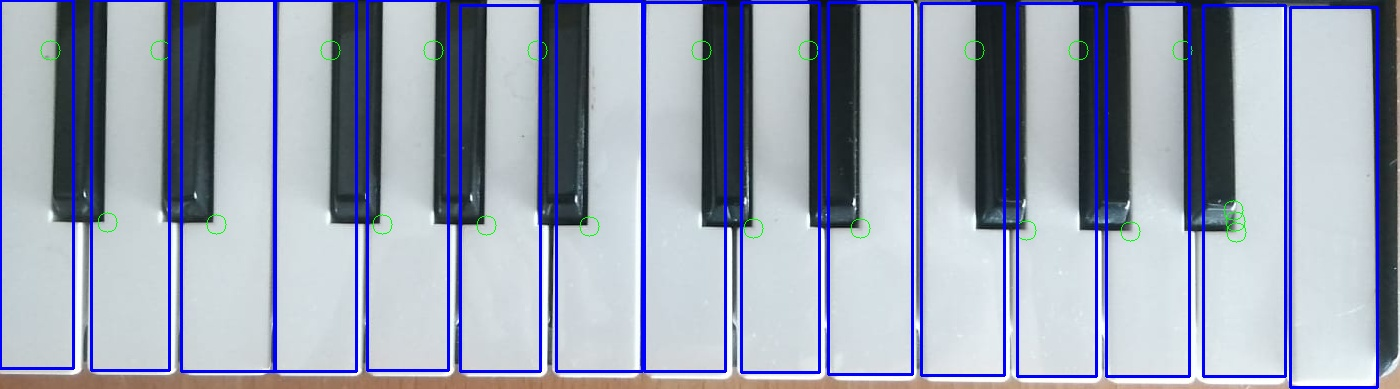
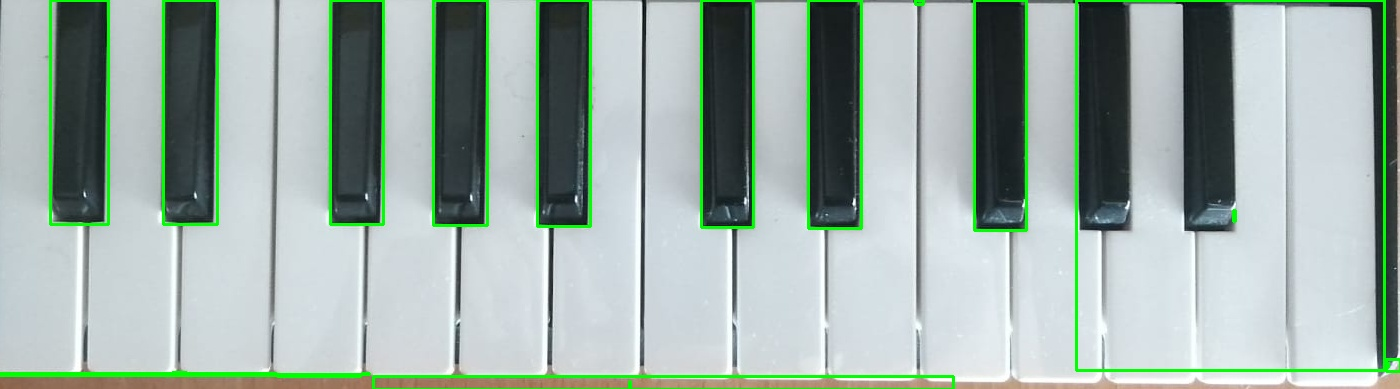
points

Changed region(s): [[0.0, 0.0, 1.0, 1.0]]

diff --git a/src/img_proc.py b/src/img_proc.py
@@ -39,6 +39,10 @@ class ImgProc:
     
     def find_keys(src_img_path, dest_img_path = 'img/results/keys.jpg'):
         img = cv2.imread(src_img_path)
+        img2 = img.copy()
+        x,y,_ =  img.shape
+        img_center = (y/2,x/2)
+
         gray = cv2.cvtColor(img, cv2.COLOR_BGR2GRAY)
 
         #remove image boreders
@@ -51,26 +55,6 @@ class ImgProc:
                 resize2[i].append(resize[i][j])
 
         resize2 = np.array(resize2) 
-
-        #detect black keys
-        _,thresh = cv2.threshold(resize2,127,255,cv2.THRESH_BINARY)
-        opned = cv2.morphologyEx(thresh, cv2.MORPH_OPEN, kernel= np.ones((13, 13), np.uint8))
-        closed = cv2.morphologyEx(opned, cv2.MORPH_CLOSE, kernel= np.ones((7, 7), np.uint8))
-        edges = cv2.Canny(closed,50,150)
-        contours, _ = cv2.findContours(edges.copy(), cv2.RETR_EXTERNAL, cv2.CHAIN_APPROX_SIMPLE)
-
-        black_keys = []
-
-        for contour in contours:
-            epsilon = 0.02 * cv2.arcLength(contour, True)
-            approx = cv2.approxPolyDP(contour, epsilon, True)
-            
-            x, y, w, h = cv2.boundingRect(approx)
-            x +=50
-            y +=50
-            black_keys.append((x,y,w,h))
-            
-            cv2.rectangle(img, (x, y), (x + w, y + h), (0, 255, 0), 2)
         
         #detect white keys
         thresh2 = cv2.adaptiveThreshold(gray,255,cv2.ADAPTIVE_THRESH_MEAN_C,cv2.THRESH_BINARY,5,2)
@@ -82,11 +66,56 @@ class ImgProc:
         valid_contours = [contour for contour in contours if cv2.contourArea(contour) > min_contour_area]
 
         white_keys = []
+        maxX = 0
+        maxY = 0
+        minX = float("inf")
+        minY = float("inf")
         for contour in valid_contours:
             x, y, w, h = cv2.boundingRect(contour)
             white_keys.append((x,y,w,h)) 
-            cv2.rectangle(img, (x, y), (x + w, y + h), (255, 0, 0), 2)
+            if x > maxX: maxX = x+w
+            if x < minX : minX = x
+            if y > maxY: maxY = y+h
+            if y < minY : minY = y
+
+            #cv2.rectangle(img, (x, y), (x + w, y + h), (255, 0, 0), 2)
         
+        #cv2.rectangle(img,(minX,minY),(maxX,maxY),(255,0,0),2)
+
+        #detect black keys
+        _,thresh = cv2.threshold(img2,127,255,cv2.THRESH_BINARY)
+        opned = cv2.morphologyEx(thresh, cv2.MORPH_OPEN, kernel= np.ones((13, 13), np.uint8))
+        closed = cv2.morphologyEx(opned, cv2.MORPH_CLOSE, kernel= np.ones((7, 7), np.uint8))
+        edges = cv2.Canny(closed,50,150)
+        cv2.imwrite('img/results/edges.jpg',edges)
+        
+        points = []
+        for i in range(len(edges[int(img_center[1])])):
+            if edges[int(img_center[1])][i] == 255: points.append(i)
+
+
+        left = points[0:int(len(points)/2)]
+        right = points[int(len(points)/2):len(points)]
+        left = left[len(left)-10:10]
+        right = right[0:10]
+
+        print(left,right)
+        
+        contours, _ = cv2.findContours(edges.copy(), cv2.RETR_EXTERNAL, cv2.CHAIN_APPROX_SIMPLE)
+
+        black_keys = []
+
+        for contour in contours:
+            epsilon = 0.02 * cv2.arcLength(contour, True)
+            approx = cv2.approxPolyDP(contour, epsilon, True)
+            
+            x, y, w, h = cv2.boundingRect(approx)
+            #x +=50
+            #y +=50
+            black_keys.append((x,y,w,h))
+            
+            cv2.rectangle(img, (x, y), (x + w, y + h), (0, 255, 0), 2)
+
         cv2.imwrite(dest_img_path,img)
 
         return(black_keys,white_keys)

diff --git a/src/main.py b/src/main.py
@@ -5,7 +5,7 @@ def main():
     # ImgProc.crop_img('img/pressedkeyboard.png',hull)
     ImgProc.find_piano('img/keyboard_exemples/kbd1.jpeg')
     black_kesy, white_keys = ImgProc.find_keys('img/results/cropped_keyboard.jpg')
-    print(black_kesy, white_keys)
+    # print(black_kesy, white_keys)
 
 
 if __name__ == "__main__":
